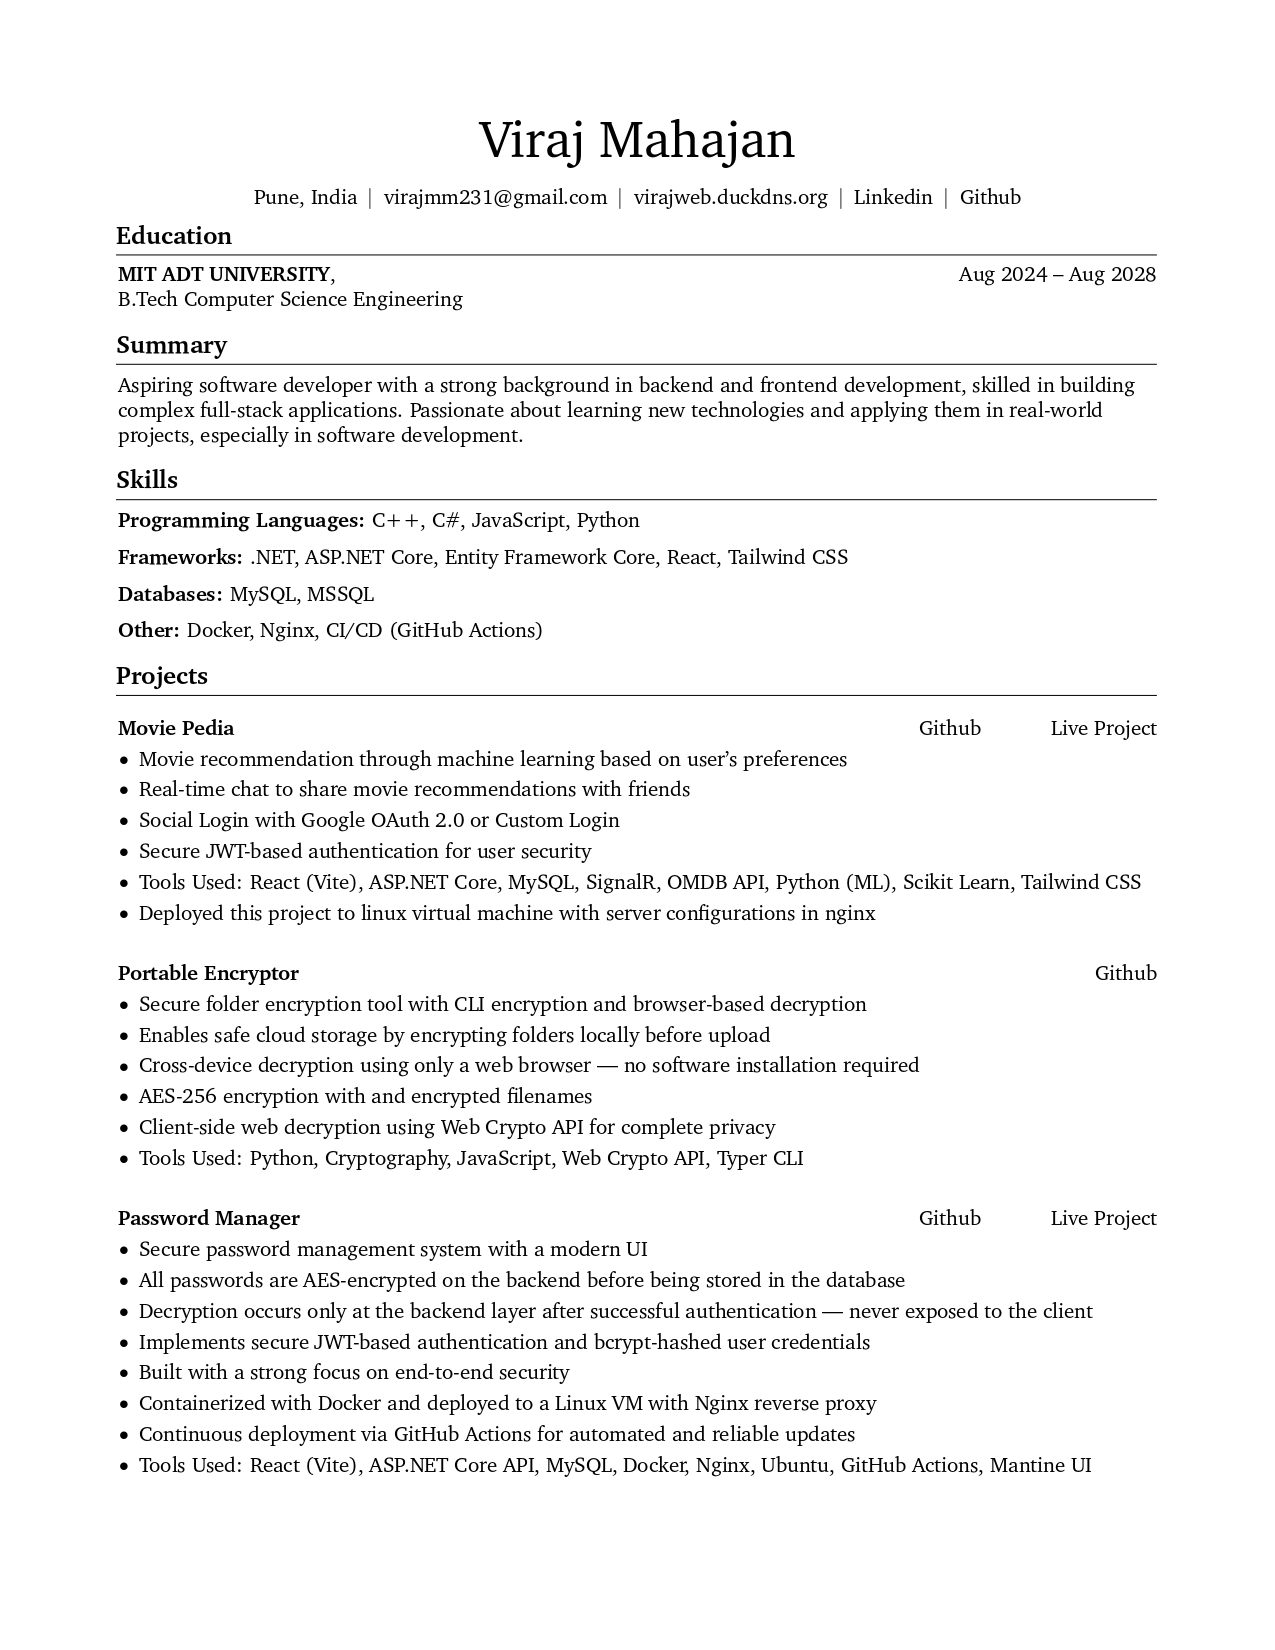
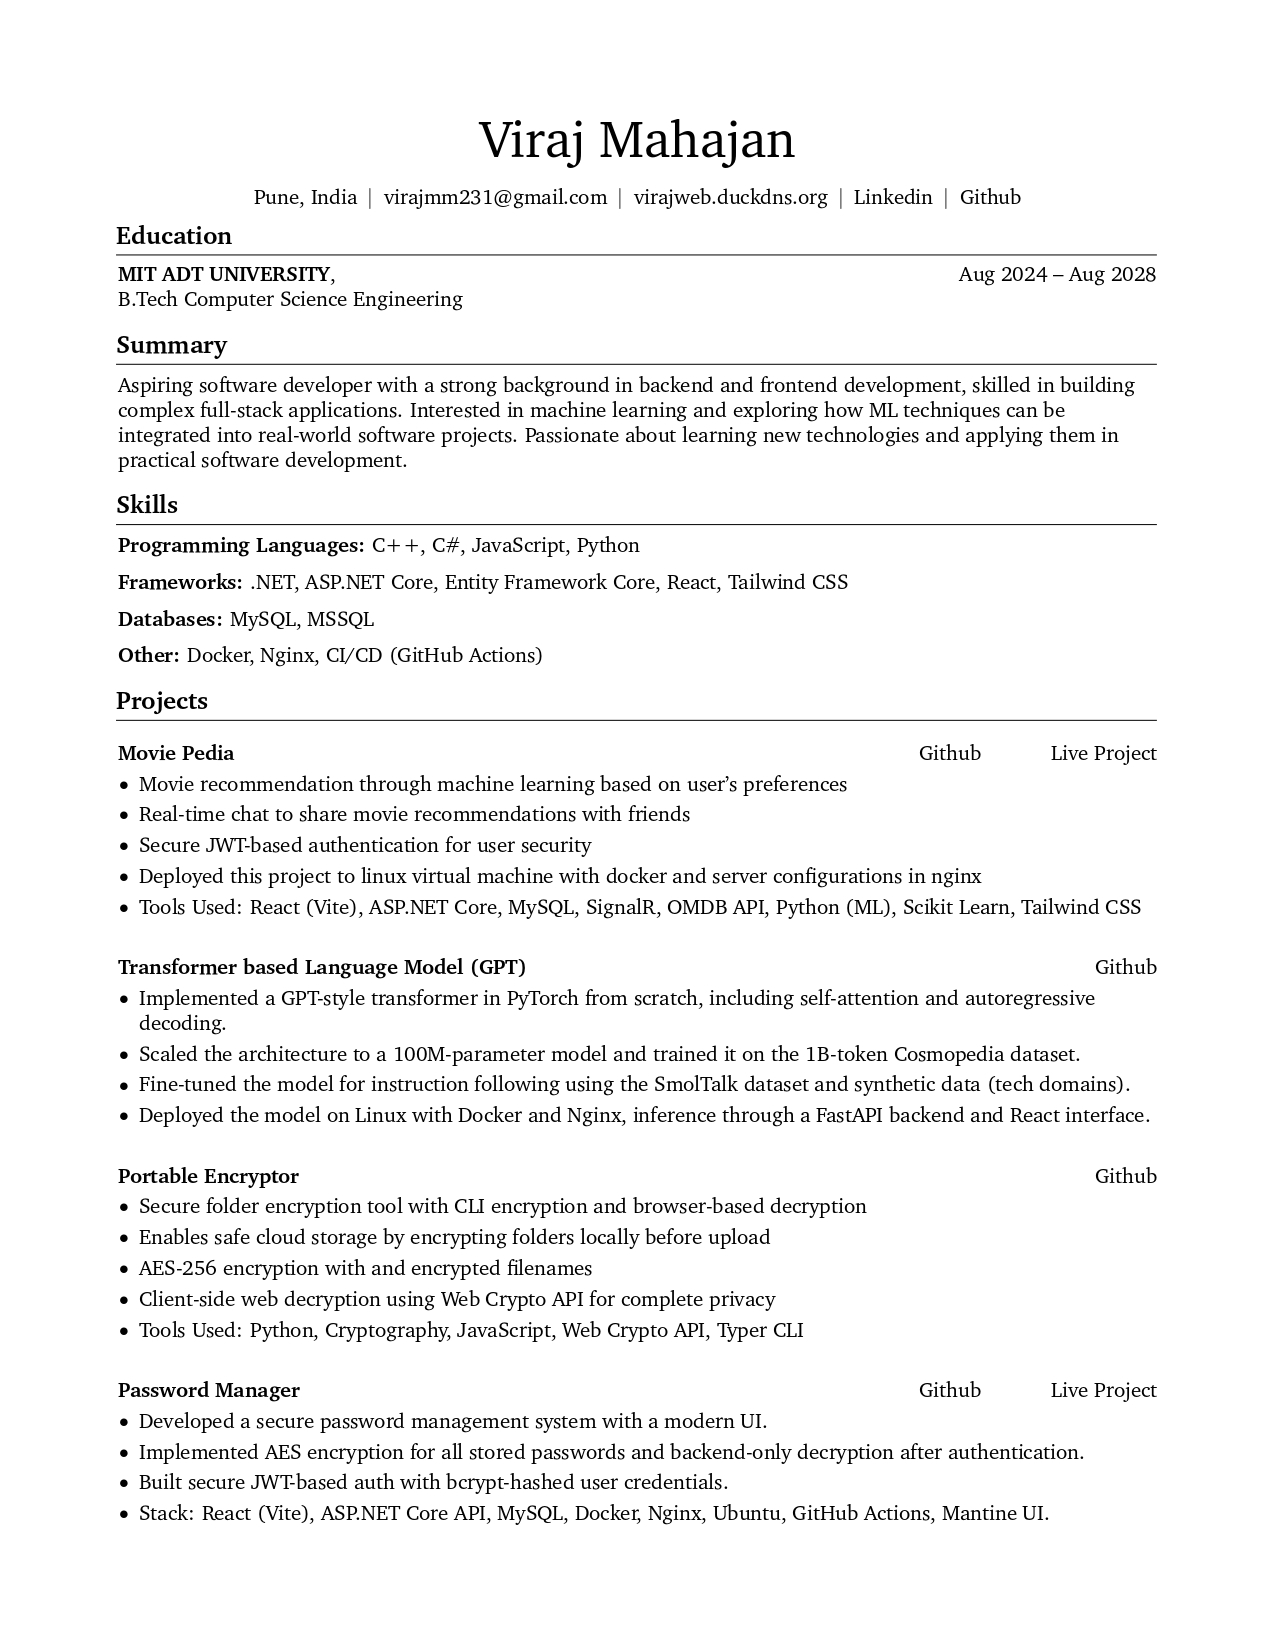
updated resume, new project details added

diff --git a/src/pages/Projects.jsx b/src/pages/Projects.jsx
@@ -13,8 +13,23 @@ const Projects = () => {
         "Cryptography",
         "JavaScript",
         "Web Crypto API",
-        "AES-256-GCM",
+        "AES-256",
         "PBKDF2",
+      ],
+    },
+    {
+      name: "Transformer based Language Model",
+      description: `Implemented a GPT-style transformer in PyTorch from scratch (self-attention, autoregressive decoding), scaled it to 100M parameters trained on the 1B-token Cosmopedia dataset, and fine-tuned it with SmolTalk and synthetic tech-focused instruction data.`,
+      gitHubLink: "https://github.com/Viraj2313/gpt-model",
+      livePreview: "",
+      techStack: [
+        "Python",
+        "PyTorch",
+        "NumPy",
+        "BPE Tokenizer",
+        "Transformers",
+        "FastAPI",
+        "React",
       ],
     },
     {
